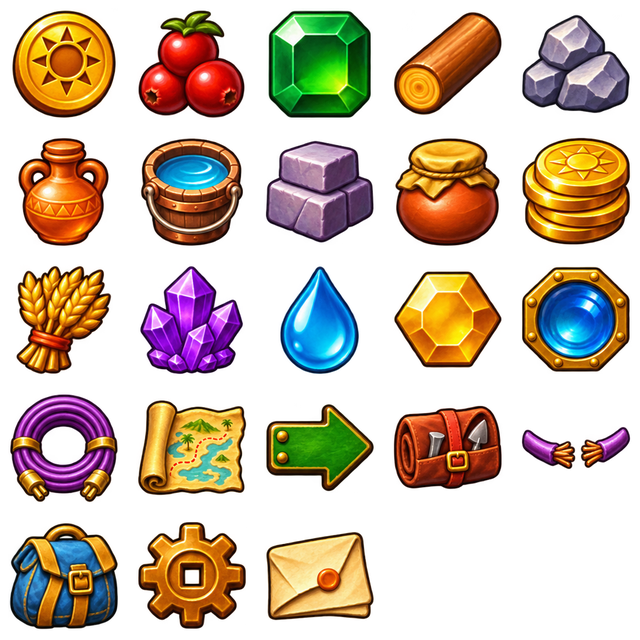
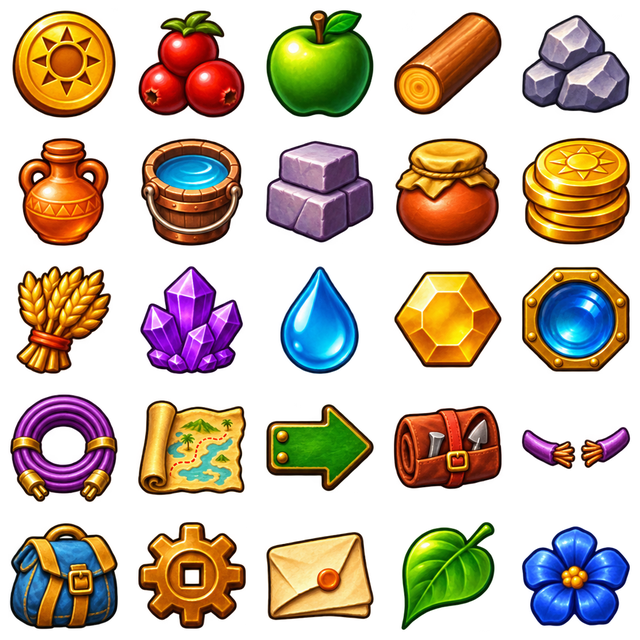
Add an apple and score-only leaves and flowers to Relic Rush

Changed region(s): [[0.4062, 0.0, 0.5938, 0.1875], [0.8125, 0.8125, 1.0, 1.0], [0.625, 0.8125, 0.7812, 1.0]]

diff --git a/games/relic-rush/tools/check_art_catalogue.py b/games/relic-rush/tools/check_art_catalogue.py
@@ -42,11 +42,15 @@ assert upgrades == {name: item["runtime"] for name, item in manifest["resource_u
 campaign = manifest["campaign_pieces"]
 assert campaign["runtime"] in actual
 assert all((ROOT / campaign[key]).is_file() for key in ("source", "edit_target", "prompt", "review"))
+revision = campaign["revision"]
+assert all((ROOT / revision[key]).is_file() for key in ("source", "prompt"))
+assert set(revision["boxes"]) == {"apple", "leaf", "flower"}
 declaration = re.search(r"A\.campaign_pieces = \{([^}]+)\}", art).group(1)
 slots = [key for row in campaign["rows"] for key in row]
 assert re.findall(r'"([^"]+)"', declaration) == slots, "Campaign piece atlas order"
 story_pieces = re.search(r"A\.story_pieces = \{([^}]+)\}", art).group(1)
-expected_pieces = set(pieces) | set(upgrades) | set(re.findall(r'"([^"]+)"', story_pieces)) | {"amphora"}
+expected_pieces = (set(pieces) - {"emerald"}) | set(upgrades) | set(re.findall(r'"([^"]+)"', story_pieces))
+expected_pieces |= {"amphora", *revision["boxes"]}
 assert set(slots) == expected_pieces and len(slots) == len(expected_pieces), "Campaign piece atlas coverage"
 assert set(manifest["tool_unlocks"]) <= set(manifest["tools"])
 match3 = (ROOT.parent.parent / "engine/match3.lua").read_text()

diff --git a/games/relic-rush/tools/prepare_resource_pieces.py b/games/relic-rush/tools/prepare_resource_pieces.py
@@ -43,6 +43,9 @@ def register(spec, check):
 
 def register_campaign(spec, check):
     atlas = Image.open(ROOT / spec['source'])
+    revision = spec['revision']
+    revised = Image.open(ROOT / revision['source'])
+    assert revised.mode == 'RGBA'
     edges = spec['row_edges']
     assert atlas.mode == 'RGBA' and edges[0] == 0 and edges[-1] == atlas.height
     rows, size = spec['rows'], spec['cell_size']
@@ -50,8 +53,9 @@ def register_campaign(spec, check):
     packed = Image.new('RGBA', (columns * size, len(rows) * size))
     for row, keys in enumerate(rows):
         for col, key in enumerate(keys):
-            tile = atlas.crop((col*atlas.width//columns, edges[row],
-                               (col+1)*atlas.width//columns, edges[row+1]))
+            box = revision['boxes'].get(key)
+            tile = revised.crop(box) if box else atlas.crop((col*atlas.width//columns, edges[row],
+                                                             (col+1)*atlas.width//columns, edges[row+1]))
             packed.paste(fit_sprite(tile, key, size, spec['extent']), (col*size, row*size))
     target = ROOT / spec['runtime']
     if check:

diff --git a/games/relic-rush/docs/asset-catalogue.md b/games/relic-rush/docs/asset-catalogue.md
@@ -31,32 +31,36 @@ The [front-facing carved hex stones](../../../art/match3-blockers/source.png) us
 
 ## Campaign piece atlas
 
-One built-in ImageGen edit painted all 23 campaign objects together. It used the
+One built-in ImageGen edit painted the original 23 campaign objects together. It used the
 [previous pieces assembled in slot order](../art/campaign-pieces/edit-target.png)
 as the edit target and the original Cradle of Rome's
 `reference/cradle-of-rome/visuals/board-pieces.png` as the style reference.
 The objects share an upper-left light, dark contours and compact silhouettes.
 The [transparent source](../art/campaign-pieces/source.png), [exact prompt](../art/campaign-pieces/prompt.txt)
 and [manifest](../art/board-states/manifest.json) record the inputs and registration.
+A [single revision](../art/campaign-pieces/fruit-and-score.png) redraws the
+emerald as a green apple and adds a leaf and flower. The
+[revision prompt](../art/campaign-pieces/fruit-and-score.prompt.txt) and named
+crop boxes in the manifest register all three into the same runtime atlas.
 
 | Atlas row | Left to right |
 | --- | --- |
-| 1 | Sun coin, berries, emerald, timber, quarry stones |
+| 1 | Sun coin, berries, green apple, timber, quarry stones |
 | 2 | Amphora, water bucket, cut blocks, ration jar, trade coins |
 | 3 | Grain, quartz, springwater, sun gem, lamp lens |
 | 4 | Relay cable, tide chart, trail arrow, tool roll, snapped cable |
-| 5 | Supply satchel, shutter gear, folded note |
+| 5 | Supply satchel, shutter gear, folded note, leaf, flower |
 
 Run `python3 games/relic-rush/tools/prepare_resource_pieces.py` to crop the
-measured row bands and five columns, trim the transparent exterior and
+measured row bands, columns and revision boxes, trim the transparent exterior and
 uniformly fit each object into a centered 128 px cell with a 112 px maximum
 extent. The runtime atlas is `data/campaign-pieces.png`. The same sprite appears
 in matches, refills, resource flights and the guide. The existing selection,
 hint and chain overlays supply their respective states. The game's shop and
 wallet use their own currency artwork, and first-clear cards use their prop art.
 The sprites are free-standing objects. At the board's actual draw size the
-23 pieces fit the canonical face in strict object mode.
-[In-game review](screenshots/review/campaign-pieces/README.md).
+25 pieces fit the canonical face in strict object mode.
+[In-game review](screenshots/review/fruit-and-score/README.md).
 
 ## Resource pieces
 
@@ -80,7 +84,7 @@ the other story pieces below, alongside the trail arrow from the outlined atlas.
 | --- | --- | --- |
 | `coin` | Round gold coin engraved with an eight-ray sun, 4 Coins | Coins icon |
 | `berries` | Red berries, 1 Food | Board only |
-| `emerald` | Square-cut green gem, 1 Food | Board only |
+| `emerald` | Square-cut green gem from the earlier palette | Alternate art previews |
 | `timber` | One unwrapped log, 2 Supplies | Camp Timber award |
 | `stone` | Pale violet-grey quarry stone, 3 Supplies | Board only |
 | `water` | Teal water bucket, 3 Food. Replaces timber from board 5 after the Well is restored. | Board and guide |
@@ -93,8 +97,9 @@ the other story pieces below, alongside the trail arrow from the outlined atlas.
 | `sun-gem` | Existing Jewels gold gem (`data/tile-sets/jewels/0.png`), 9 Coins | Board and guide from 30 |
 
 Run `python3 games/relic-rush/tools/prepare_resource_pieces.py` to reproduce.
-The score-only amphora in the live campaign comes from the campaign atlas.
-Alternate previews draw kind 5 from the selected match-piece pack.
+Leaves and flowers use the same board match and scoring behavior as other
+pieces. Their authored slots carry no wallet yield. The amphora asset serves
+legacy art previews.
 Cut blocks use `data/tile-sets/resources/4.png` (Resources atlas, row 3,
 column 5), registered with `python3 games/relic-rush/tools/prepare_assets.py`.
 The five later chips use their existing pack art at its authored orientation

diff --git a/games/relic-rush/docs/board-progression.md b/games/relic-rush/docs/board-progression.md
@@ -8,9 +8,10 @@ it is out of the way. Boards 2–10 and 13 show a story piece in one colour slot
 
 | Boards | Palette |
 | --- | --- |
-| 1 | Five regular kinds, including emerald and the timber log |
-| 2, 5, 8, 10, 13 | Four regular kinds and one story piece |
-| 3, 4, 6, 7, 9 | Five regular kinds and one story piece |
+| 1 | Five resource kinds, including the green apple and timber log |
+| 2, 5, 8, 10, 13 | Four resource kinds and one story piece |
+| 3, 4, 7, 9 | Four resource kinds, one score piece and one story piece |
+| 6 | Three resource kinds, two score pieces and one story piece |
 
 Set `story_piece` and `goal_kind` in [the campaign data](../lua/campaign.lua)
 to choose a story sprite and the colour slot it replaces. An optional
@@ -19,8 +20,8 @@ refills. Leave it unset for five regular kinds plus the story piece.
 The [campaign atlas](asset-catalogue.md#campaign-piece-atlas) supplies the art
 for these slots and for the pieces introduced by restorations.
 
-Ordinary boards use five resource pieces. The amber amphora on early six-kind
-boards earns score. Confirming the Spring Well replaces blue timber with a water
+Ordinary boards use five match kinds. Green apples earn 1 Food each.
+Confirming the Spring Well replaces blue timber with a water
 bucket worth 3 Food from board 5. The Artisan Workshop replaces dressed
 stone with cut blocks worth 5 Supplies from board 8. The broken cable occupies
 the orange slot on that board, and berries are omitted to keep five kinds. The Jungle Market
@@ -30,6 +31,12 @@ ration jars with grain, and from board 20 the Archive improves Supplies.
 The Fountain upgrades the blue water slot from board 27 and the Temple
 upgrades the Coins slot on board 30. The Camp and Observatory add tools on
 boards 2 and 24. These rewards persist wherever the slot is available.
+
+Leaves appear on boards 3, 6, 9, 12, 18 and 24. Flowers appear on boards 4, 6,
+7, 15, 21 and 27. They award score only. Earlier introductions use the score
+slot. Board 6 also uses the berries' slot for the flower and gets Food from
+the Well. Later appearances use the apple slot while rations or grain and
+water still pay Food.
 
 Boards 5 and 9 use authored openings with seeded refills. The first idle hint
 matches three buckets on the quay approach or three cut blocks by the market

diff --git a/games/relic-rush/docs/resource-expedition.md b/games/relic-rush/docs/resource-expedition.md
@@ -67,12 +67,12 @@ visible cost.
 | --- | --- | ---: |
 | Gold sun coin | Coins | 4 |
 | Red berries | Food | 1 |
-| Emerald | Food | 1 |
+| Green apple | Food | 1 |
 | Timber log | Supplies | 2 |
 | Purple dressed stone | Supplies | 3 |
 
 Buy or restore a building using the family totals. Timber and stone are
-separate match kinds within Supplies, just as berries and emeralds are
+separate match kinds within Supplies, just as berries and green apples are
 separate kinds within Food. The town and board show Coins, Supplies and Food
 with a sun coin, a timber-and-stone bundle and a food basket. Pending earnings
 are visible on the board and bank on a win. The completion dialog shows score.
@@ -82,7 +82,8 @@ story kind in the fifth slot. A 5+1 recovery has six total kinds and should
 earn that complexity through layout and enough legal opening swaps. Board 1
 uses five regular resources. Boards 4 and 9 use 5+1. Board 8 puts the snapped
 cable in the orange slot and omits red berries, leaving room for cut blocks in
-a 4+1 palette. The orange slot can also hold an amphora that pays score. Board 4 takes
+a 4+1 palette. Leaves and flowers add score in their authored slots and clear
+plaques just like other matches. Board 4 takes
 the Coins slot for the tide chart. The Well purchase that follows uses Coins
 banked on earlier boards or earned from unused moves and replays.
 

diff --git a/games/relic-rush/docs/screenshots/review/fruit-and-score/README.md b/games/relic-rush/docs/screenshots/review/fruit-and-score/README.md
@@ -1,0 +1,15 @@
+# Green apple and score pieces
+
+The apple occupies the green Food slot. The leaf and the blue flower earn
+expedition score only. Level 6 shows both score pieces alongside the Well's
+water buckets and the shore marker.
+
+| Screen | Before | After |
+| --- | --- | --- |
+| Level 6, 480 × 900 | ![Previous level 6](shore-before.jpg) | ![Both score pieces](shore-after.jpg) |
+| Level 6, 390 × 844 | ![Previous phone level 6](shore-before-phone.jpg) | ![Both score pieces on phone](shore-after-phone.jpg) |
+| Level 9, 480 × 900 | ![Previous level 9](../campaign-pieces/supply-after.jpg) | ![Apple and leaf](supply-after.jpg) |
+| Level 9, 390 × 844 | ![Previous phone level 9](../campaign-pieces/supply-after-phone.jpg) | ![Apple and leaf on phone](supply-after-phone.jpg) |
+| Guide, 390 × 844 | ![Previous guide](guide-before.jpg) | ![Guide explains score pieces](guide-after.jpg) |
+
+Reproduce with `build/test/relic-rush "shot dressing-shore" "shot floating-hud" "shot phone-floating-hud" "shot phone-guide"`.

diff --git a/games/relic-rush/README.md b/games/relic-rush/README.md
@@ -205,7 +205,8 @@ On a 390 × 844 iPhone (safe-area insets 47 top, 34 bottom) the island and the j
 5. Confirm construction, pan across the growing settlement and open neighboring land when eligible.
 6. Read the discovery, then set out again. Thirty stages support ten restored buildings; level 30 delivers the final hook.
 
-A matched sun coin earns 4 Coins. Red berries and emeralds pay 1 Food.
+A matched sun coin earns 4 Coins. Red berries and green apples pay 1 Food.
+Leaves and flowers add score only.
 Timber and dressed stone pay 2 and 3 Supplies. Each confirmed
 restoration unlocks a higher-yield chip or a tool on eligible expeditions.
 Authored story pieces keep their slots. The result shows what the next
